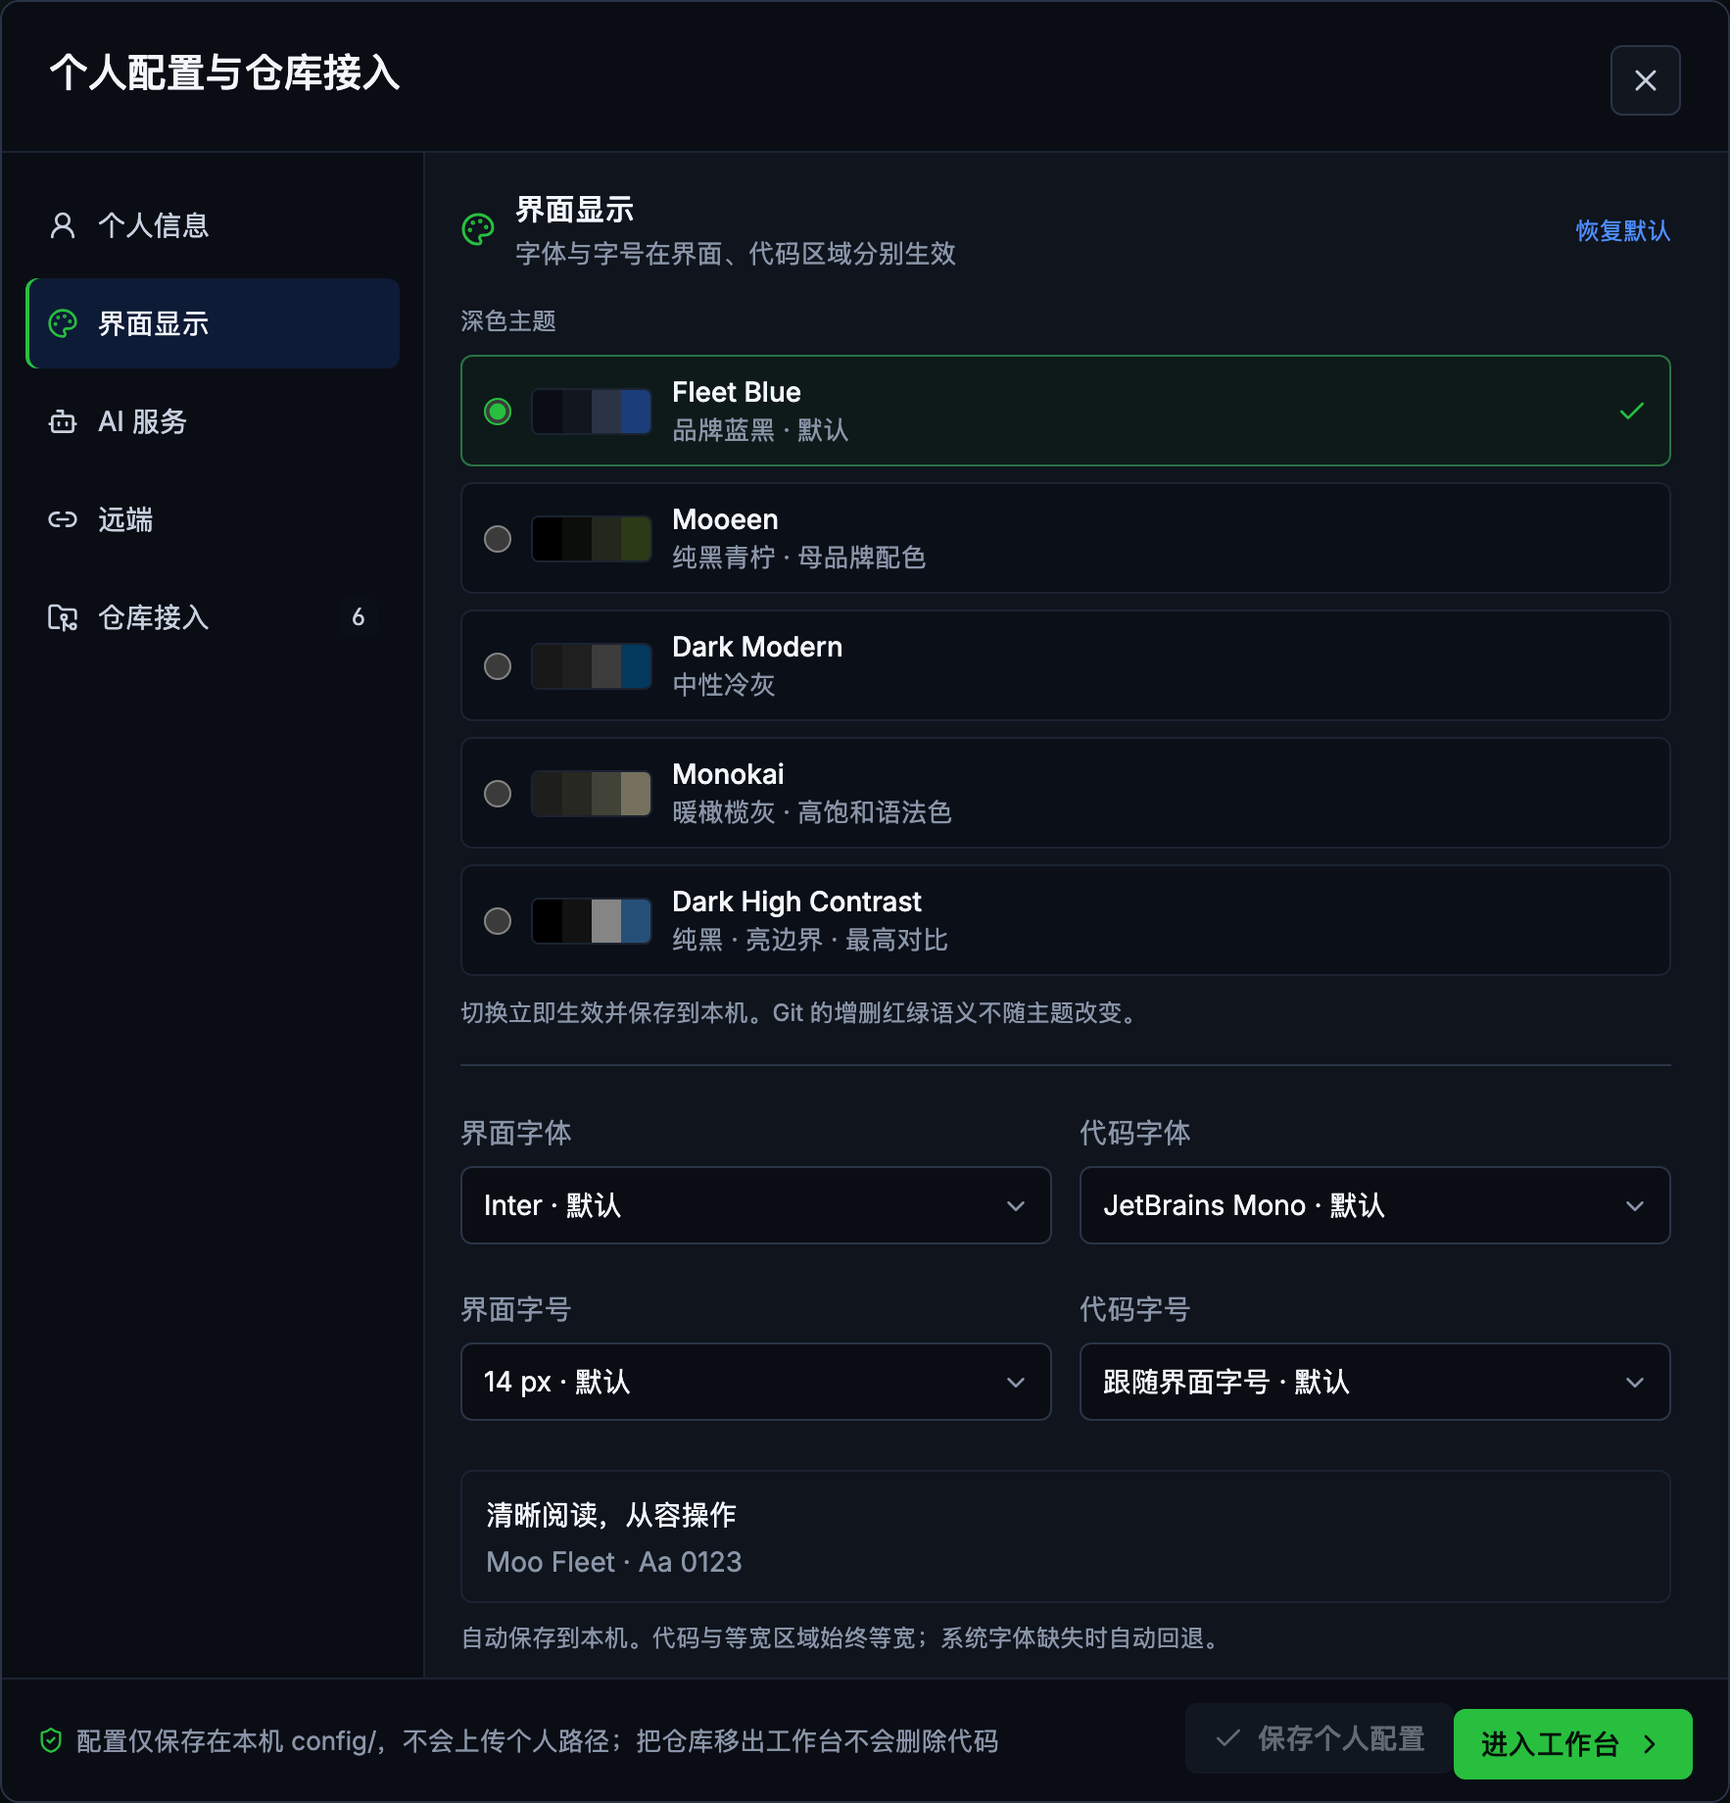
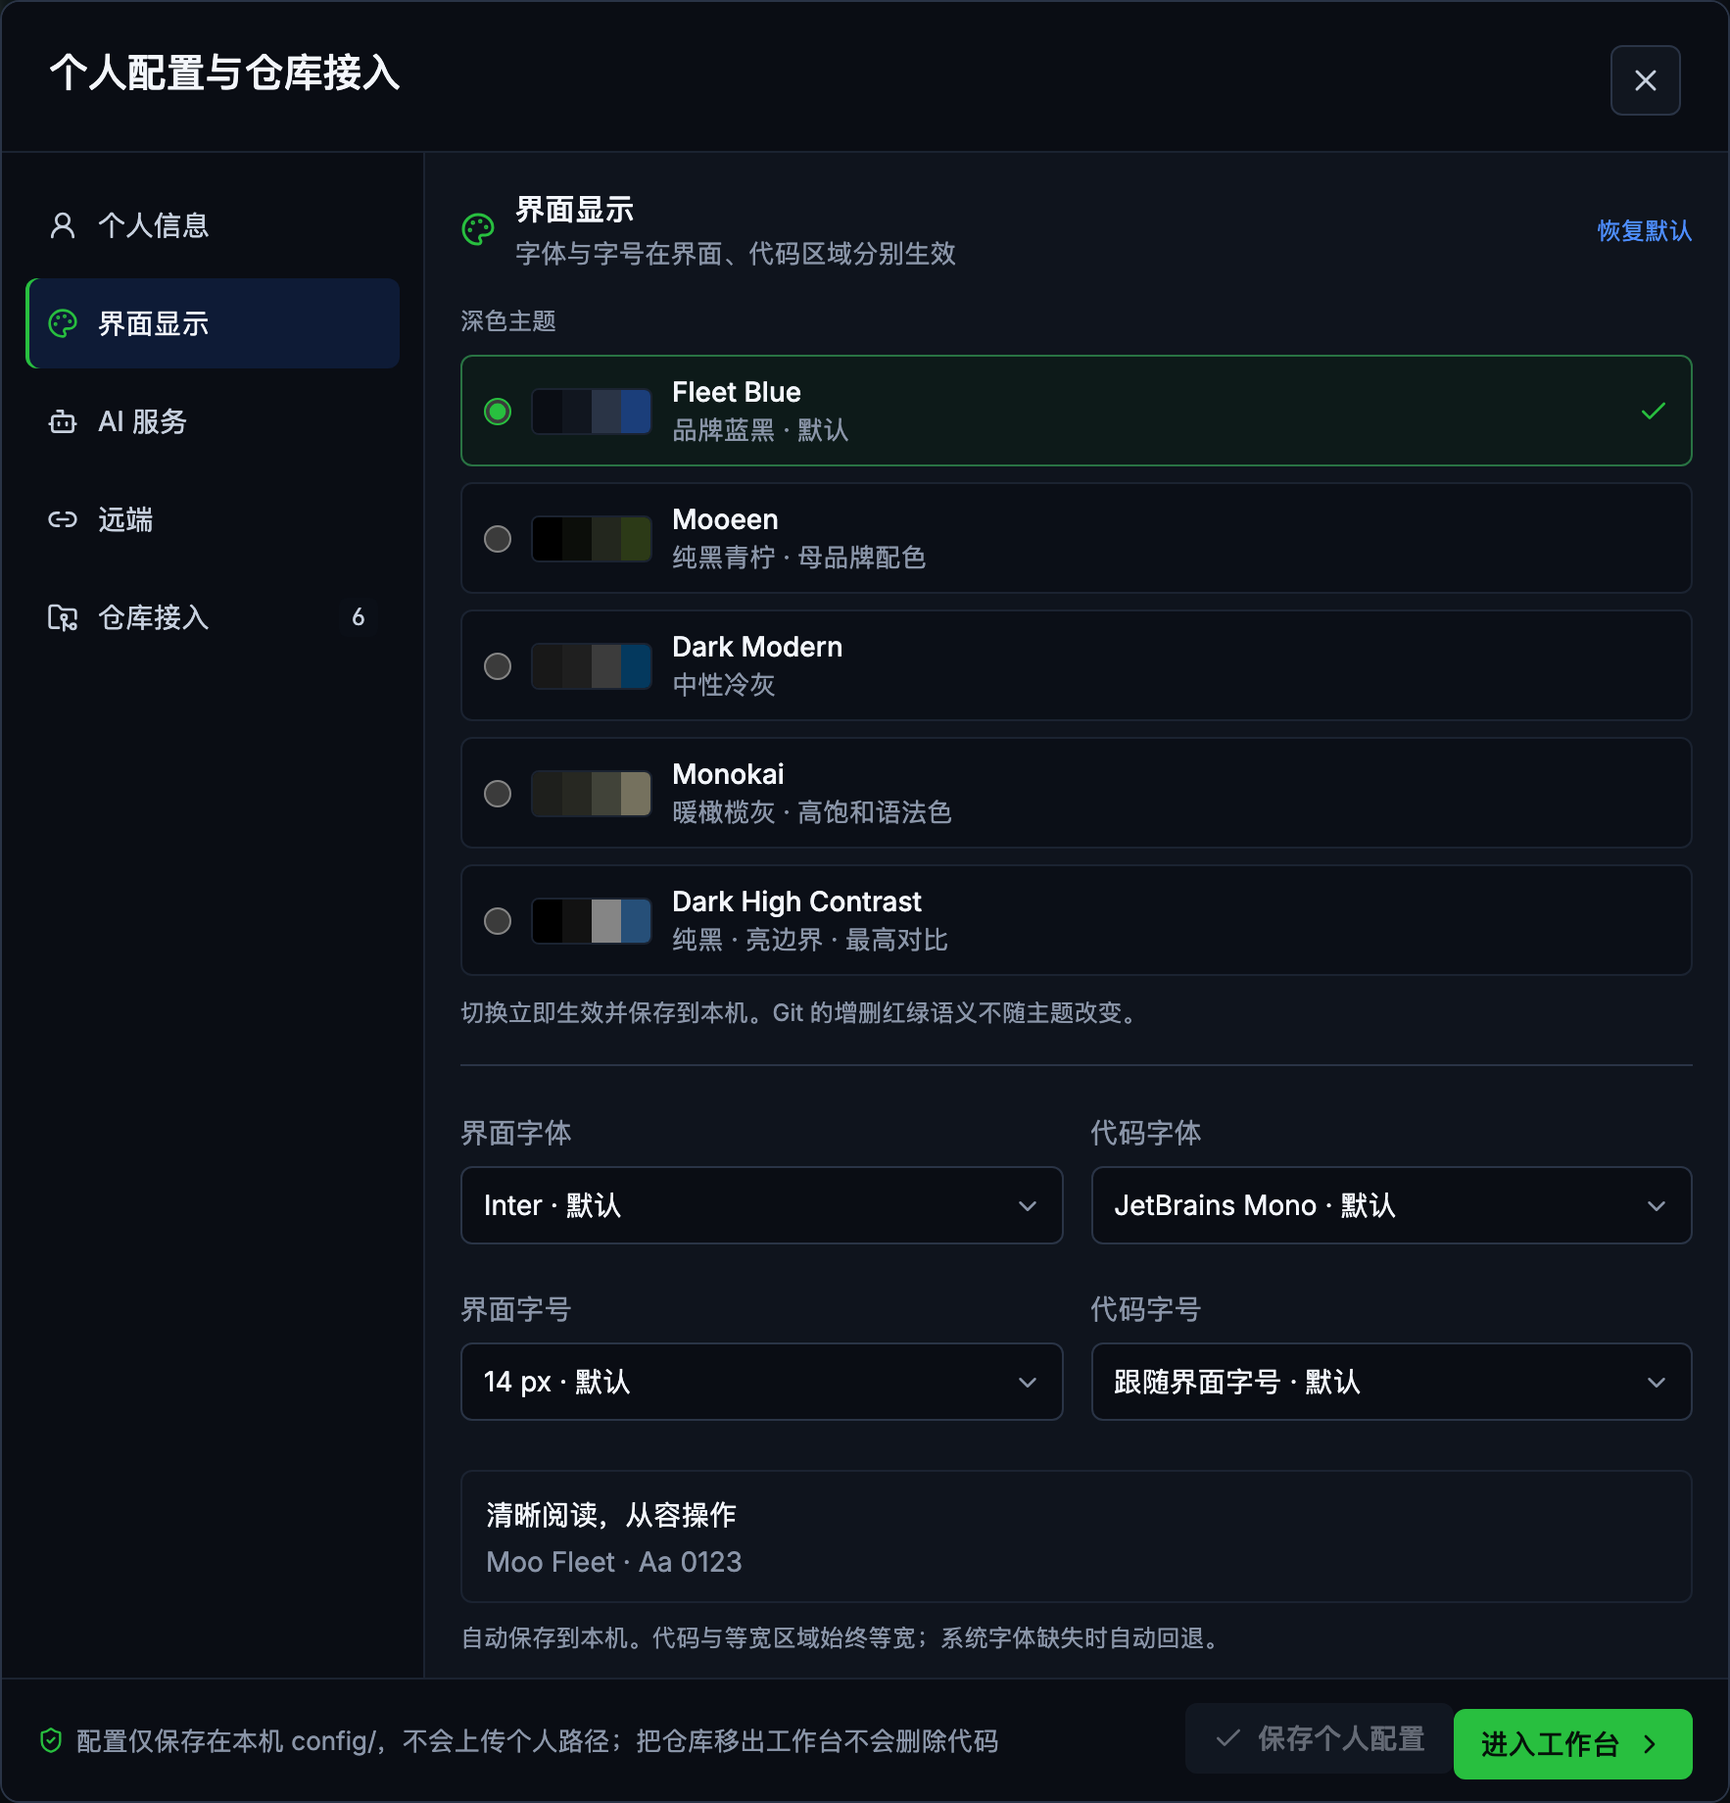
docs: 重拍配图，订正安装方式与清理口径
- 配图按 0.1.36 界面重拍（顶栏已图标化），仓名仍为虚构夹具
- OPERATIONS：禁止拖拽安装并说明原因；新增中间产物与清理小节；补 docs:capture 的端口占用与 Chrome 参数两条坑
- NOTES：项目盘容量订正为 93 GiB / 可用 62 GiB；补 trash 绕护栏、上传速率与 Gitee 附件配额
- README：补顶栏检查更新说明与详情页 ↑↓ 的行为

Changed region(s): [[0.6229, 0.6196, 0.8097, 0.6815], [0.6229, 0.7125, 0.7786, 0.7745], [0.9032, 0.1239, 0.9655, 0.1549]]

diff --git a/NOTES.md b/NOTES.md
@@ -91,7 +91,7 @@
 - 前端 fetch 的网络层失败统一走 `api.ts` 的 `connectedFetch` 翻译成中文（ApiError status 0）；别在各组件里散落处理 "Failed to fetch"。
 - Vue `<Teleport to="body">` 的内容继承不到组件根上声明的 CSS 变量（scoped 选择器仍命中，但变量走 DOM 继承链）：`--session-*` 必须同时挂在 workspace 与各 Teleport 根（drawer/backdrop/modal-layer）上，否则 `var()` 静默回退、color-mix 全部变灰，且无任何报错。
 - 备份仓「对齐远端」用的是 reset --hard + clean -fd，所以光在本地清掉旧格式内容不够——远端 tip 还是旧内容时下次同步会原样拉回来。清理必须挂在同步流程里（receiveRemote 之后、写会话之前调 claimBackupOwnership），才能随同一笔提交推上去让远端也干净。
-- 构建盘的剩余空间要先看够不够：`release/` 里每个 DMG 约 40M，攒到 8 个就能把一块 28G 的盘塞满，打包在 strip 阶段报 `No space left on device`。发版前先 `df -h` 看构建盘；旧 DMG 在 Gitee / GitHub Release 上都有附件，本地只留最近两版就行。
+- 构建盘的剩余空间要先看够不够：`release/` 里每个 DMG 约 45M，四个桌面包合计约 400M，一套六件近 500M，`build:mac` 还会在 `release/macos-<arch>` 留约 120M 的 App 中间体。发版前先 `df -h` 看构建盘（本机项目盘 `/Volumes/dev` 2026-10-22 核对为 **93 GiB、可用 62 GiB**，与此前记录的 28 GiB 容量不同，别按旧数字判断）；旧 DMG 在 Gitee / GitHub Release 上都有附件，本地只留当前版就行。
 - 官方 Node x64 运行时移除原签名后不能再交给 Xcode 16.4 的 `strip -x` 改写，Intel 会报 `__LINKEDIT` 布局错误；保留官方二进制布局，继续用归档 SHA-256、架构/依赖、重签名和实际执行检查做门禁。（2026-08-09 `macos-15-intel` 实测）
 
 ## 桌面版（Windows / Linux）
@@ -107,8 +107,9 @@
 - **批量删除护栏只在「前台 + 已授权非沙箱」下被绕过**：同样的命令放进后台任务（`run_in_background`）就拿不到授权，护栏照常生效，构建会在 `rm -rf dist` 或 electron-builder 的清理步骤中断，报 `[safe-delete][SAFE_DELETE_BULK_CONFIRM_REQUIRED]`。macOS DMG 与桌面版包都必须前台执行；耗时长的分平台跑，别让前台命令超时被自动转后台。（2026-09-18 实测）
 - `find <dir> -mindepth 1 -delete` **不受该护栏限制**。构建脚本内部的 `rm -rf` 改不了时，用它预清理可以让脚本的 `rm -rf` 变成空操作。（2026-09-18 实测）
 - **清理构建产物必须用 `/bin/rm`，否则空间不会释放**：受控环境里 PATH 上的 `rm` 是包装脚本（`brokered-bin/rm` → 失败时回落到 `safe-bin/rm`），它按“移入废纸篓”语义执行，把文件挪到 **同一卷** 的 `/.Trashes/<uid>/`。对照实测：`mkfile 64m` 后包装 `rm` 释放 **0 KiB**，`/bin/rm` 释放 66,152 KiB。删掉旧 DMG/安装包后 `df` 可用空间不动就是踩了这条。
-- 卷级废纸篓 `/.Trashes` 受 macOS 保护（`d-wx--x--t root wheel`），**普通进程连自己的 `<uid>` 子目录都读不了**（放行沙箱也一样，`Operation not permitted`），只能由 Finder 清空、或等 30 天自动清理，所以别指望用命令回收。清理构建盘时要么直接用 `/bin/rm`，要么先确认废纸篓已空。项目盘 `/Volumes/dev` 只有 28 GiB 且长期 99% 占用，这条直接影响发版能否构建。（2026-10-13 实测）
-- 项目盘 `/Volumes/dev` 只有 28G，发版构建全程改用外接盘：`MOO_FLEET_DESKTOP_WORK` / `MOO_FLEET_DESKTOP_OUTPUT` 指到外接盘，旧制品先归档走。注意 macOS 构建脚本的 `RELEASE_ROOT` 是硬编码在仓库内的，无法重定向（约 300 MB）。
+- 卷级废纸篓 `/.Trashes` 受 macOS 保护（`d-wx--x--t root wheel`），**普通进程连自己的 `<uid>` 子目录都读不了**（放行沙箱也一样，`Operation not permitted`），只能由 Finder 清空、或等 30 天自动清理，所以别指望用命令回收。清理构建盘时要么直接用 `/bin/rm`，要么先确认废纸篓已空。（2026-10-13 实测）
+- **要绕开「单轮累计删除条目」的护栏，用 `/usr/bin/trash` 而不是 `rm -rf`**：它是 Apple 自带二进制（`root:wheel`、arm64e），同一卷内只做 rename，所以几千个条目的目录也是一次调用 0.02 秒，不会触发批量删除拦截。对照实测：五个构建中间目录（合计 259 MB）逐个 `trash` 全部成功，`rm -rf` 在这条路上会被拦在中途。代价是**空间要等清倒废纸篓才回来**（`df` 前后都是 62 GiB 可用），所以「要腾空间」用 `/bin/rm`、「只想让目录变小且留后悔余地」用 `trash`。另外 `trash` 遇到同名会自己加时间戳后缀，不会覆盖废纸篓里的旧条目。（2026-10-22 实测）
+- 项目盘 `/Volumes/dev` 的容量会变：2026-10 上旬实测 28 GiB 且长期 99% 占用，2026-10-22 复核为 **93 GiB / 31 GiB 已用 / 62 GiB 可用**。空间吃紧时的方案仍然有效——发版构建全程改用外接盘，`MOO_FLEET_DESKTOP_WORK` / `MOO_FLEET_DESKTOP_OUTPUT` 指到外接盘，旧制品先归档走；但**先 `df -h` 再决定**，别照搬外接盘那套。注意 macOS 构建脚本的 `RELEASE_ROOT` 是硬编码在仓库内的，无法重定向（约 300 MB）。
 - **Gitee 单文件上限是 100 MiB（104,857,600 字节），不是 100 MB**：100,443,068 字节的 deb 能传，112,075,410 字节的 exe 被拒。报错文案只写「文件大小已超出限制：100 MB」，别按十进制 100,000,000 去卡。GitHub 没有这个限制。（2026-09-16 实测）
 - Electron 默认打包 55 个语言包，未压缩约 48 MB，`electronLanguages: [zh-CN, en-US]` 可裁到 2 个。注意 `.pak` 本身已压缩，**压缩后只省 2~9 MB**，别按未压缩体积估算。（2026-09-16 实测）
 - AppImage 默认 squashfs gzip；`appImage.compression: xz` 能把 218 MB 的 Electron 主二进制压得明显更小（实测 117 MiB → 93 MiB），是让 AppImage 挤进 Gitee 上限的关键。xz 压缩更慢，构建时间变长。
@@ -161,7 +162,16 @@
 - **绕代理不一定更快**：本机 `HTTPS_PROXY` 指向 WorkBuddy 注入的 `127.0.0.1:49550`，`uploads.github.com` 被解析成 fake-IP（`198.18.0.41`）。用 `--noproxy '*' --resolve uploads.github.com:443:<真 IP>` 绕过，速率仍只有 65 KB/s——瓶颈在隧道本身，不在这个 HTTP 代理。
 - **`api.github.com` 不接受资产上传**：往 `/repos/{o}/{r}/releases/{id}/assets` POST 会回 404，资产只能走 `uploads.github.com`。
 - **必须带 `Content-Length`**：用管道喂 `--data-binary @-` 走 chunked 会被 GitHub 直接 400，别为了「避免 100-continue」改成管道。`-H "Expect:"` 关掉 100-continue 是安全的，`--http1.1` 也建议加上。
-- **Gitee 附件上传用 `curl -F "file=@…"` 是快的**（478 MB / 72 秒），别把 GitHub 的慢归因到整条上行。
+- **速率是时段相关的，别把一次 65 KB/s 当常态**：同一个本机、同一条上行，2026-10-22 发 0.1.36 时六个包（约 497 MB）**51 秒传完**（≈10 MB/s），没有任何断流。所以「先测速」的意义是决定这一次要不要换节点，不是给平台判死刑；先传最小的包（macOS arm64 约 46 MB），9 秒返回即可继续。
+- **Gitee 附件上传用 `curl -F "file=@…"` 是快的**（0.1.36 六件 66 秒、0.1.35 五件 72 秒），别把 GitHub 的慢归因到整条上行。
+
+## Gitee Release 附件与配额
+
+- **`GET /repos/{o}/{r}/releases` 里的 `assets` 不含字节数**，而且只列源码包（`v0.1.35.zip` / `.tar.gz`），安装附件根本不在里面；算占用必须走 `GET /repos/{o}/{r}/releases/{id}/attach_files`，那里才有 `size` 与 `id`。（2026-10-22 实测）
+- 附件三件套：`POST .../releases/{id}/attach_files` + `-F "file=@<path>"` → 201 且响应带 `size`/`id`；`DELETE .../releases/{id}/attach_files/{attach_id}` → 204（无正文，别拿 200 判成功）；`GET` 同一路径列全部附件。
+- **仓库附件配额约 1024 MiB，相邻两版就接近打满**：0.1.34（479.2 MiB）+ 0.1.35（478.9 MiB）= 958.1 MiB，0.1.36 的 479 MiB 装不进去。做法与 0.1.35 发版一致——先删**最老那一版**的六个附件（保留 0.1.35 与 0.1.36），tag、Release 正文与源码包都不动，删完 957.8 MiB。删前先把 attach 列表拉下来记 id，删后回读一次确认是 0 条。
+- 认证用 `Authorization: token <gitee_token>` 头即可（读用户、建 release、传/删附件都认）；配合 `curl -K <config 文件>` 让 token 不进 argv，也就不用担心 ps / 日志泄漏。
+- Gitee 的附件下载地址**不支持 Range**：`curl -r 0-199` 会拿到 200 + 完整文件，别用它做「断点续传/分片」的可用性判断。
 
 ## 检查更新
 

diff --git a/docs/OPERATIONS.md b/docs/OPERATIONS.md
@@ -77,6 +77,12 @@ npm run docs:capture 01 03    # 只拍指定编号的场景
 
 - 主题 token 的完整性（五套各 40 个）与对比度下限由 `src/client/theme-tokens.test.ts` 守着，跑 `npm test` 就会检查；新增 token 时先改 `THEME_TOKEN_NAMES`。
 - `docs:capture` 在 `$MOO_FLEET_DOCS_ROOT`（默认 `/tmp/moo-fleet-docs`）里造 6 个虚构仓库和 6 条虚构会话，起隔离实例和 headless Chrome 截图，不碰真实数据目录。场景脚本在 `scripts/doc-screenshots/scenarios/`，细节见那里的 README。
+- `docs:capture` 要求 8787 与 5173 空闲：它会启动自己的 `npm run dev`，**但没有端口占用检查**——端口被别的实例占着时，健康检查会命中那个实例，夹具就写进它的数据目录（真实仓库名会被拍进公开仓库的配图）。跑之前先 `lsof -iTCP:8787 -iTCP:5173` 确认，必要时先停掉本机的开发服务。
+- 受限执行环境里 headless Chrome 起不来自己的沙箱（日志里是 `sandbox initialization failed: Operation not permitted`，随后 GPU 进程退出、`FATAL: GPU process isn't usable`），表现为「Chrome 调试端口没起来」。这类机器加参数再跑：
+
+  ```bash
+  MOO_FLEET_DOCS_CHROME_FLAGS="--no-sandbox --disable-gpu" npm run docs:capture
+  ```
 
 ## 3. macOS 构建与安装
 
@@ -97,6 +103,19 @@ npm run build:mac:all   # Apple Silicon + Rosetta 上顺序构建两种架构
 
 版本号和 build 号从 `package.json` 派生。构建脚本会下载或复用 `release/.cache` 中对应架构的官方 Node 归档，核对 SHA-256、CPU 架构、动态依赖、签名和实际执行结果。两个架构的 App、DMG 和运行时缓存彼此隔离；同一时间只允许一个 macOS 构建。
 
+### 中间产物与清理
+
+构建不再就地删除上一轮的中间产物：`scripts/build-macos-app.sh` 会把已有的 `release/macos-<arch>` 与图标工作目录挪到 `release/.stale-<arch|icon-work>-<时间戳>` 再重建。原因是受限执行环境对「一次删除几十个条目」另有规则，就地 `rm -rf` 会在构建中途被拦，而报错位置落在后面的 `iconutil` 上，看着像图标生成坏了。
+
+代价是每次构建留一份约 120 MB 的中间体（按架构各一份），发版之后按需清理。清理有两种，按是否需要立刻腾出空间来选：
+
+```bash
+/bin/rm -rf release/.stale-*      # 立刻释放空间；条目多时可能触发批量删除限制
+/usr/bin/trash release/.stale-*   # 同卷 rename，不受条目数限制，但清倒废纸篓前不释放空间
+```
+
+`release/` 已被 `.gitignore` 忽略；本地只保留当前版本的安装包即可，旧版本的 DMG 与桌面包在 GitHub / Gitee Release 上都有附件。
+
 ### ad-hoc 内测包
 
 没有设置 Developer ID 身份时，构建生成 ad-hoc 签名的内部测试包，并在 DMG 中包含：
@@ -106,7 +125,9 @@ npm run build:mac:all   # Apple Silicon + Rosetta 上顺序构建两种架构
 
 辅助安装器是随 DMG 分发的自包含脚本，不依赖源码仓脚本。它会显示候选版本和当前安装状态，校验 Bundle ID、主程序和签名；目标若是同名但不同 Bundle ID 的 App，会拒绝覆盖。安装成功后最多等待 20 秒，以新 App 的内嵌 Node 端口和 `/api/health` 判断服务是否可用。
 
-安装器不会关闭 Gatekeeper、修改 SIP、重新签名或自动结束仍在运行的 App。它会把被替换的 App 保存到带时间戳的备份目录，默认只保留最近 2 份。也可以跳过辅助安装器，手动把 `Moo Fleet.app` 拖到 `Applications`。
+安装器不会关闭 Gatekeeper、修改 SIP 或重新签名，正在运行的实例需要先自行退出（被 Gatekeeper 送到 `AppTranslocation/` 下的异常实例是例外，安装器会先识别并结束它）。它会把被替换的 App 保存到带时间戳的备份目录，默认只保留最近 2 份。
+
+**不要改用「把 `Moo Fleet.app` 拖到 `Applications`」的方式安装。** DMG 经浏览器下载后，其中每个文件都会带上 `com.apple.quarantine`；ad-hoc 签名且未公证的 App 首次打开会被 Gatekeeper 直接拦下。实测拖拽副本带 53 处隔离属性、内置运行时无法执行，即使再用 `xattr -dr` 清掉也可能起不来。一律使用辅助安装器，理由与逐条依据见 `NOTES.md` 的「macOS 安装与 Gatekeeper」。
 
 安装器会清除复制出来的 App 上的下载隔离属性：`ditto --noextattr --noqtn` 在 macOS 27 起**不再**丢弃 `com.apple.quarantine`（2026-10-14 实测），所以复制之后还会按成员逐个 `xattr -d`；只读成员临时置为可写、清完恢复原权限。清不掉就中止安装，不会把带隔离属性的 App 装进 `/Applications`。这个处理在本轮修复之后的构建里才有——**已发布的 0.1.25～0.1.28 DMG 在 macOS 27 上安装会被判为「仍带有下载隔离属性」而中止**，需要换用重新构建的 DMG（或在 macOS 26.x 上安装）。
 
